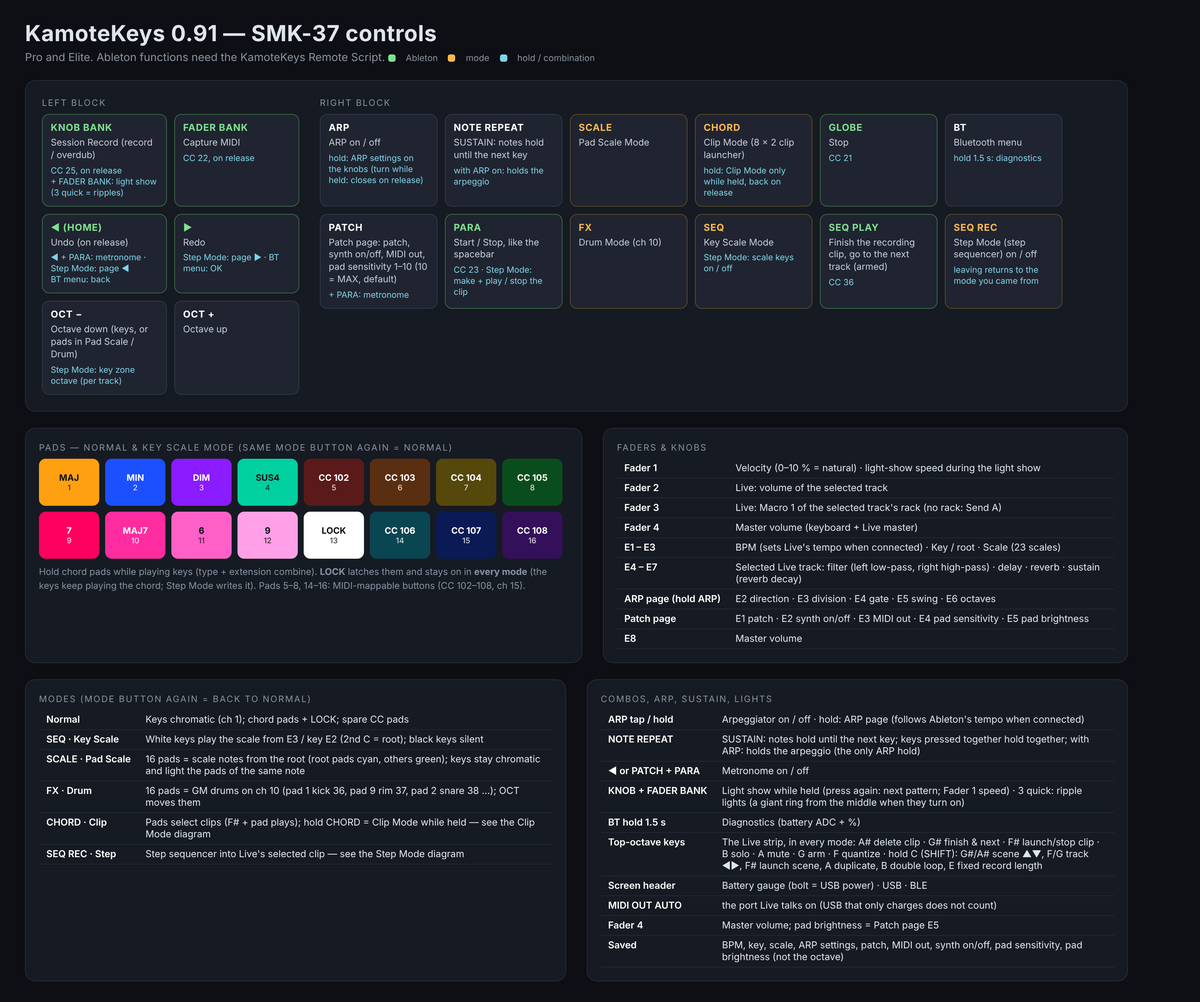
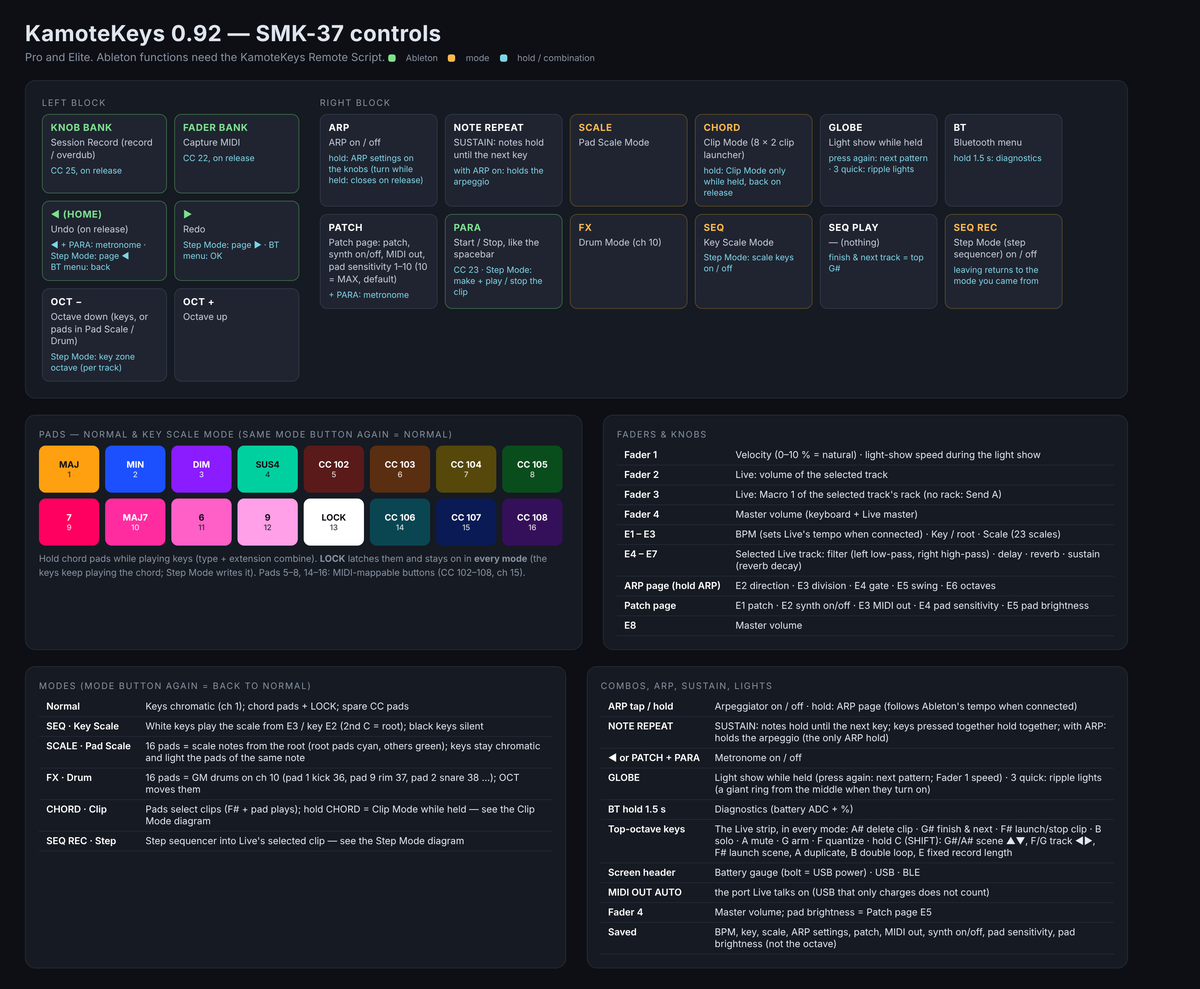
Docs for 0.92: GLOBE = light show, SEQ PLAY unused, Stop on PARA
README, HOW_TO_USE, ABLETON_REMOTE_SCRIPT, MIDI_MAPPING, CONTROLS,
CHANGELOG and the SMK-37 diagrams.

Claude-Session: https://claude.ai/code/session_014nKCDtX9z2HT4cnrjTFgfW

diff --git a/docs/diagrams/src/matrix.html b/docs/diagrams/src/matrix.html
@@ -11,7 +11,7 @@ td.same{color:#9aa0ab}
 tr.sec td{background:#1c1f26;color:#9aa0ab;font-size:11px;letter-spacing:.08em;text-transform:uppercase;font-weight:700}
 .hi{color:#ffd27a;font-weight:600}
 </style></head><body><div class="wrap">
-<h1>KamoteKeys 0.91 — what every control does in each mode (SMK-37)</h1>
+<h1>KamoteKeys 0.92 — what every control does in each mode (SMK-37)</h1>
 <div class="sub">Grey = same in every mode. Gold = changes in that mode. Ableton functions need the KamoteKeys Remote Script.</div>
 <table>
 <tr><th>Control</th><th class="m" style="--c:#9aa0ab">Normal</th><th class="m" style="--c:#ffb84d">Key Scale (SEQ)</th><th class="m" style="--c:#40e070">Pad Scale (SCALE)</th><th class="m" style="--c:#ff5a5a">Drum (FX)</th><th class="m" style="--c:#3b82f6">Clip (CHORD)</th><th class="m" style="--c:#ff5a6a">Step (SEQ REC)</th></tr>
@@ -20,7 +20,7 @@ tr.sec td{background:#1c1f26;color:#9aa0ab;font-size:11px;letter-spacing:.08em;t
 <tr class="sec"><td colspan="7">Pads (16)</td></tr>
 <tr><td class="b">Pads</td><td>1–4 MAJ MIN DIM SUS4 · 9–12 7 MAJ7 6 9 · 13 LOCK (hold + key = chord) · 5–8, 14–16 CC 102–108 buttons</td><td>Same as Normal (chords built in the scale)</td><td class="hi">16 notes of the scale from the root (root pads cyan); OCT moves them</td><td class="hi">GM drums on ch 10: pad 1 kick, 9 rim, 2 snare, 10 clap … coloured by family; OCT moves them</td><td class="hi">8 tracks × 2 scenes. Press = SELECT slot + arm; with F# = PLAY (launch / stop). Colours = Live's clip state. Scene Arrange: tracks on / off per scene</td><td class="hi">16 steps of the page (tap = note on/off; hold + later step = tie). DRUM held: Drum Mode pads that play + select</td></tr>
 <tr class="sec"><td colspan="7">Left block</td></tr>
-<tr><td class="b">KNOB BANK</td><td colspan="6" class="same">Ableton Session Record (on release) · with FADER BANK held: light show (each press = next pattern, Fader 1 = speed) · 3 quick light shows: ripple lights on / off</td></tr>
+<tr><td class="b">KNOB BANK</td><td colspan="6" class="same">Ableton Session Record (on release; fixed length if set)</td></tr>
 <tr><td class="b">FADER BANK</td><td colspan="6" class="same">Ableton Capture MIDI (on release) · see KNOB BANK for the combos</td></tr>
 <tr><td class="b">◀ (HOME)</td><td colspan="5" class="same">Ableton Undo (on release) · ◀ + PARA: metronome · in the BT menu: back</td><td class="hi">Page ◀ (◀ + PARA still metronome)</td></tr>
 <tr><td class="b">▶</td><td colspan="5" class="same">Ableton Redo · in the BT menu: OK</td><td class="hi">Page ▶</td></tr>
@@ -30,13 +30,13 @@ tr.sec td{background:#1c1f26;color:#9aa0ab;font-size:11px;letter-spacing:.08em;t
 <tr><td class="b">NOTE REPEAT</td><td colspan="6" class="same">SUSTAIN on / off: notes hold until the next key (pressed together = held together); with ARP on it holds the arpeggio</td></tr>
 <tr><td class="b">SCALE</td><td colspan="6" class="same">Pad Scale Mode on / off (lit only in Pad Scale)</td></tr>
 <tr><td class="b">CHORD</td><td colspan="4" class="same">Tap: Clip Mode · hold: Clip Mode while held, back on release</td><td class="hi">Tap: back to Normal</td><td class="hi">Tap: Clip Mode · hold: Clip Mode while held, back to Step Mode</td></tr>
-<tr><td class="b">GLOBE</td><td colspan="6" class="same">Ableton Stop</td></tr>
+<tr><td class="b">GLOBE</td><td colspan="6" class="same">Light show while held (each press = next pattern, Fader 1 = speed) · 3 quick presses: ripple lights on / off</td></tr>
 <tr><td class="b">BT</td><td colspan="6" class="same">Bluetooth menu · hold 1.5 s: diagnostics (LED test, timing)</td></tr>
 <tr><td class="b">PATCH</td><td colspan="6" class="same">Patch page (patch, internal synth on/off, MIDI out, pad sensitivity 1–10, 10 = MAX) · PATCH + PARA: metronome</td></tr>
 <tr><td class="b">PARA</td><td colspan="5" class="same">Ableton Start / Stop, like the spacebar</td><td class="hi">Make the clip if needed and play it; again = stop it</td></tr>
 <tr><td class="b">FX</td><td colspan="6" class="same">Drum Mode on / off</td></tr>
 <tr><td class="b">SEQ</td><td colspan="5" class="same">Key Scale Mode on / off (the chord LOCK stays on)</td><td class="hi">Key zone: drum keys ↔ scale keys (per track)</td></tr>
-<tr><td class="b">SEQ PLAY</td><td colspan="6" class="same">Finish the recording clip on the selected track, then select and arm the next track</td></tr>
+<tr><td class="b">SEQ PLAY</td><td colspan="6" class="same">— (finish &amp; next track is the top G#)</td></tr>
 <tr><td class="b">SEQ REC</td><td colspan="5" class="same">Step Mode on (lit)</td><td class="hi">Leave Step Mode, back to the mode you came from</td></tr>
 <tr class="sec"><td colspan="7">Faders and knobs</td></tr>
 <tr><td class="b">Fader 1</td><td colspan="6" class="same">Velocity (0–10 % = natural, above = fixed) · light-show speed during the light show</td></tr>

diff --git a/docs/diagrams/src/controls.html b/docs/diagrams/src/controls.html
@@ -25,12 +25,12 @@ td:first-child{color:#fff;font-weight:600;white-space:nowrap}
 .legend span{display:inline-block;margin-right:14px;font-size:12px;color:#8792a2}
 .dot{display:inline-block;width:10px;height:10px;border-radius:3px;margin-right:5px;vertical-align:-1px}
 </style></head><body><div class="wrap">
-<h1>KamoteKeys 0.91 — SMK-37 controls</h1>
+<h1>KamoteKeys 0.92 — SMK-37 controls</h1>
 <div class="sub">Pro and Elite. Ableton functions need the KamoteKeys Remote Script. <span class="legend"><span><span class="dot" style="background:#7ee08f"></span>Ableton</span><span><span class="dot" style="background:#ffb84d"></span>mode</span><span><span class="dot" style="background:#7fd3e6"></span>hold / combination</span></span></div>
 
 <div class="panel">
  <div><div class="label">Left block</div><div class="block left">
-  <div class="btn able"><b>KNOB BANK</b><span>Session Record (record / overdub)</span><i>CC 25, on release<br>+ FADER BANK: light show (3 quick = ripples)</i></div>
+  <div class="btn able"><b>KNOB BANK</b><span>Session Record (record / overdub)</span><i>CC 25, on release</i></div>
   <div class="btn able"><b>FADER BANK</b><span>Capture MIDI</span><i>CC 22, on release</i></div>
   <div class="btn able"><b>◀ (HOME)</b><span>Undo (on release)</span><i>◀ + PARA: metronome · Step Mode: page ◀<br>BT menu: back</i></div>
   <div class="btn able"><b>▶</b><span>Redo</span><i>Step Mode: page ▶ · BT menu: OK</i></div>
@@ -42,13 +42,13 @@ td:first-child{color:#fff;font-weight:600;white-space:nowrap}
   <div class="btn"><b>NOTE REPEAT</b><span>SUSTAIN: notes hold until the next key</span><i>with ARP on: holds the arpeggio</i></div>
   <div class="btn mode"><b>SCALE</b><span>Pad Scale Mode</span></div>
   <div class="btn mode"><b>CHORD</b><span>Clip Mode (8 × 2 clip launcher)</span><i>hold: Clip Mode only while held, back on release</i></div>
-  <div class="btn able"><b>GLOBE</b><span>Stop</span><i>CC 21</i></div>
+  <div class="btn"><b>GLOBE</b><span>Light show while held</span><i>press again: next pattern · 3 quick: ripple lights</i></div>
   <div class="btn"><b>BT</b><span>Bluetooth menu</span><i>hold 1.5 s: diagnostics</i></div>
   <div class="btn"><b>PATCH</b><span>Patch page: patch, synth on/off, MIDI out, pad sensitivity 1–10 (10 = MAX, default)</span><i>+ PARA: metronome</i></div>
   <div class="btn able"><b>PARA</b><span>Start / Stop, like the spacebar</span><i>CC 23 · Step Mode: make + play / stop the clip</i></div>
   <div class="btn mode"><b>FX</b><span>Drum Mode (ch 10)</span></div>
   <div class="btn mode"><b>SEQ</b><span>Key Scale Mode</span><i>Step Mode: scale keys on / off</i></div>
-  <div class="btn able"><b>SEQ PLAY</b><span>Finish the recording clip, go to the next track (armed)</span><i>CC 36</i></div>
+  <div class="btn"><b>SEQ PLAY</b><span>— (nothing)</span><i>finish &amp; next track = top G#</i></div>
   <div class="btn mode"><b>SEQ REC</b><span>Step Mode (step sequencer) on / off</span><i>leaving returns to the mode you came from</i></div>
  </div></div>
 </div>
@@ -106,7 +106,7 @@ td:first-child{color:#fff;font-weight:600;white-space:nowrap}
    <tr><td>ARP tap / hold</td><td>Arpeggiator on / off · hold: ARP page (follows Ableton's tempo when connected)</td></tr>
    <tr><td>NOTE REPEAT</td><td>SUSTAIN: notes hold until the next key; keys pressed together hold together; with ARP: holds the arpeggio (the only ARP hold)</td></tr>
    <tr><td>◀ or PATCH + PARA</td><td>Metronome on / off</td></tr>
-   <tr><td>KNOB + FADER BANK</td><td>Light show while held (press again: next pattern; Fader 1 speed) · 3 quick: ripple lights (a giant ring from the middle when they turn on)</td></tr>
+   <tr><td>GLOBE</td><td>Light show while held (press again: next pattern; Fader 1 speed) · 3 quick: ripple lights (a giant ring from the middle when they turn on)</td></tr>
    <tr><td>BT hold 1.5 s</td><td>Diagnostics (battery ADC + %)</td></tr>
    <tr><td>Top-octave keys</td><td>The Live strip, in every mode: A# delete clip · G# finish &amp; next · F# launch/stop clip · B solo · A mute · G arm · F quantize · hold C (SHIFT): G#/A# scene ▲▼, F/G track ◀▶, F# launch scene, A duplicate, B double loop, E fixed record length</td></tr>
    <tr><td>Screen header</td><td>Battery gauge (bolt = USB power) · USB · BLE</td></tr>

diff --git a/docs/diagrams/src/clipmode.html b/docs/diagrams/src/clipmode.html
@@ -17,10 +17,10 @@ h2{font-size:15px;letter-spacing:.06em;text-transform:uppercase;color:#9aa0ab;ma
 kbd{background:#2a2e37;border-radius:4px;padding:1px 6px;font:inherit;font-weight:600}
 </style></head><body><div class="wrap">
 <h1><span style="color:#3b82f6">CHORD</span> · Clip Mode (Ableton clip launcher)</h1>
-<div class="sub">KamoteKeys 0.91 · SMK-37 · tap CHORD to enter / leave (lit), hold CHORD for Clip Mode only while held · needs the KamoteKeys Remote Script · pads = 8 tracks × 2 scenes of Live's session view</div>
+<div class="sub">KamoteKeys 0.92 · SMK-37 · tap CHORD to enter / leave (lit), hold CHORD for Clip Mode only while held · needs the KamoteKeys Remote Script · pads = 8 tracks × 2 scenes of Live's session view</div>
 
 <h2>Buttons</h2>
-<div class="btns"><div class="b on" style="background:#3b82f6;border-color:#3b82f6;box-shadow:0 0 14px #3b82f688">CHORD · Clip Mode on/off (lit)</div><div class="b">KNOB BANK · Session Record</div><div class="b">FADER BANK · Capture MIDI</div><div class="b">SEQ PLAY · finish clip, next track</div><div class="b">PARA · Start / Stop</div><div class="b">GLOBE · Stop</div><div class="b">◀ Undo / ▶ Redo</div><div class="b">hold CHORD · Clip Mode while held</div></div>
+<div class="btns"><div class="b on" style="background:#3b82f6;border-color:#3b82f6;box-shadow:0 0 14px #3b82f688">CHORD · Clip Mode on/off (lit)</div><div class="b">KNOB BANK · Session Record</div><div class="b">FADER BANK · Capture MIDI</div><div class="b">top G# · finish clip, next track</div><div class="b">PARA · Start / Stop</div><div class="b">GLOBE · light show</div><div class="b">◀ Undo / ▶ Redo</div><div class="b">hold CHORD · Clip Mode while held</div></div>
 
 <h2>Keyboard</h2>
 <svg id="kb" width="1490" height="250"></svg>

diff --git a/docs/diagrams/src/stepmode.html b/docs/diagrams/src/stepmode.html
@@ -17,10 +17,10 @@ h2{font-size:15px;letter-spacing:.06em;text-transform:uppercase;color:#9aa0ab;ma
 kbd{background:#2a2e37;border-radius:4px;padding:1px 6px;font:inherit;font-weight:600}
 </style></head><body><div class="wrap">
 <h1><span>SEQ REC</span> · Step Mode (step sequencer)</h1>
-<div class="sub">KamoteKeys 0.91 · SMK-37 · press SEQ REC to enter / leave · needs the KamoteKeys Remote Script · edits Live's selected track + clip slot</div>
+<div class="sub">KamoteKeys 0.92 · SMK-37 · press SEQ REC to enter / leave · needs the KamoteKeys Remote Script · edits Live's selected track + clip slot</div>
 
 <h2>Buttons</h2>
-<div class="btns"><div class="b on">SEQ REC · Step Mode on/off (lit) · leaving returns to the mode you came from</div><div class="b">PARA · make the clip + play / stop it</div><div class="b">CHORD tap · Clip Mode · hold: Clip Mode while held</div><div class="b">SEQ PLAY · finish clip, next track</div><div class="b">GLOBE · Stop</div><div class="b">OCT −/+ · key zone octave (per track)</div><div class="b">SEQ · drum keys ↔ scale keys (per track)</div><div class="b">◀ / ▶ · page left / right</div></div>
+<div class="btns"><div class="b on">SEQ REC · Step Mode on/off (lit) · leaving returns to the mode you came from</div><div class="b">PARA · make the clip + play / stop it</div><div class="b">CHORD tap · Clip Mode · hold: Clip Mode while held</div><div class="b">top G# · finish clip, next track</div><div class="b">GLOBE · light show</div><div class="b">OCT −/+ · key zone octave (per track)</div><div class="b">SEQ · drum keys ↔ scale keys (per track)</div><div class="b">◀ / ▶ · page left / right</div></div>
 
 <h2>Keyboard</h2>
 <svg id="kb" width="1490" height="250"></svg>

diff --git a/docs/diagrams/src/livekeys.html b/docs/diagrams/src/livekeys.html
@@ -17,7 +17,7 @@ h2{font-size:15px;letter-spacing:.06em;text-transform:uppercase;color:#9aa0ab;ma
 kbd{background:#2a2e37;border-radius:4px;padding:1px 6px;font:inherit;font-weight:600}
 </style></head><body><div class="wrap">
 <h1><span>LIVE STRIP</span> · one layout for every mode, recording &amp; overdub</h1>
-<div class="sub">KamoteKeys 0.91 · SMK-37 · needs the KamoteKeys Remote Script · <b>top octave = the same LIVE STRIP in every mode</b> · lowest octave = the mode's own tools · Step settings = hold a step + turn a knob · <span style="color:#60a5fa">blue = with SHIFT (top C) held</span></div>
+<div class="sub">KamoteKeys 0.92 · SMK-37 · needs the KamoteKeys Remote Script · <b>top octave = the same LIVE STRIP in every mode</b> · lowest octave = the mode's own tools · Step settings = hold a step + turn a knob · <span style="color:#60a5fa">blue = with SHIFT (top C) held</span></div>
 
 <h2>1 · Normal, Key Scale, Pad Scale, Drum</h2>
 <svg id="k1" width="1470" height="300"></svg>

diff --git a/docs/diagrams/src/playmodes.html b/docs/diagrams/src/playmodes.html
@@ -9,7 +9,7 @@ h1{font-size:26px;margin:0 0 4px}.sub{color:#9aa0ab;margin-bottom:14px}
 .pad{height:46px;border-radius:7px;display:flex;flex-direction:column;align-items:center;justify-content:center;font-weight:700;font-size:12px;color:#111}
 .pad small{font-weight:500;font-size:10px;opacity:.75}
 </style></head><body><div class="wrap">
-<h1>KamoteKeys 0.91 — play modes (SMK-37)</h1>
+<h1>KamoteKeys 0.92 — play modes (SMK-37)</h1>
 <div class="sub">Keyboard on top, the 16 pads below. Mode button again = back to Normal. Clip and Step Mode have their own diagrams. In all four modes the <b>top octave</b> (F to C, except C# D D# E) controls Live's selected track / clip: delete, finish, launch / stop, solo, mute, arm, quantize; hold top C for scene / track navigation.</div>
 <div class="grid" id="g"></div></div>
 <script>

diff --git a/README.md b/README.md
@@ -74,12 +74,12 @@ Diagrams: [all controls](docs/diagrams/SMK37-Controls.png) · [every control in 
  LEFT BLOCK                         RIGHT BLOCK
  ┌────────────┬────────────┐        ┌──────┬────────────┬───────┬───────┬───────┬──────┐
  │ KNOB BANK  │ FADER BANK │        │ ARP  │ NOTE REPEAT│ SCALE │ CHORD │ GLOBE │  BT  │
- │ Sess.Rec * │ Capture *  │        │ arp  │ sustain    │ PadScl│ Clip  │ Stop  │ menu │
+ │ Sess.Rec   │ Capture    │        │ arp  │ sustain    │ PadScl│ Clip  │Lights*│ menu │
  ├────────────┼────────────┤        ├──────┼────────────┼───────┼───────┼───────┼──────┤
  │   ◀ LEFT   │  RIGHT ▶   │        │PATCH │   PARA     │  FX   │  SEQ  │ PLAY  │ REC  │
- │ HOME/Undo  │  Redo      │        │patch │ Start/Stop │ Drum  │KeyScl │Finish │ Step │
+ │ HOME/Undo  │  Redo      │        │patch │ Start/Stop │ Drum  │KeyScl │  —    │ Step │
  ├────────────┼────────────┤        └──────┴────────────┴───────┴───────┴───────┴──────┘
- │   OCT −    │   OCT +    │        * both held = light show; 3 quick = ripple lights
+ │   OCT −    │   OCT +    │        * GLOBE held = light show; 3 quick presses = ripple lights
  └────────────┴────────────┘
 ```
 
@@ -89,18 +89,17 @@ Diagrams: [all controls](docs/diagrams/SMK37-Controls.png) · [every control in 
 | NOTE REPEAT | **SUSTAIN** on/off: notes hold until the next key; with ARP on it holds the arpeggio | |
 | SCALE | Pad Scale Mode on/off | |
 | CHORD | **Clip Mode** on/off (8 × 2 Ableton clip launcher) | **Clip Mode while held**: back to the previous mode on release (also after a quick CHORD + pad) |
-| GLOBE | Ableton **Stop** (CC 21) | |
+| GLOBE | **Light show** while held; each new press = next pattern (Fader 1 = speed) | 3 quick presses: **ripple lights** on/off (a giant ring from the middle when they turn on) |
 | BT | Open/close the Bluetooth menu | 1.5 s: diagnostics (incl. the battery reading) |
 | PATCH | Open/close the patch page | |
 | PARA | Ableton **Start / Stop**, like the spacebar (CC 23). In Step Mode: make the clip and play / stop it | |
 | PATCH + PARA (or ◀ + PARA) | Ableton **metronome** on/off (CC 26) | |
 | FX | Drum Mode on/off | |
 | SEQ | Key Scale Mode on/off | |
-| SEQ PLAY | **Finish & next track** (CC 36): ends the recording on the selected track (the clip keeps playing), then selects and arms the next track at the same scene | |
+| SEQ PLAY | nothing (finish & next track is the top G#) | |
 | SEQ REC | **Step Mode** on/off (drum step sequencer) | |
 | KNOB BANK | Ableton **Session Record** (CC 25, sent on release) | |
 | FADER BANK | Ableton **Capture MIDI** (CC 22, sent on release) | |
-| KNOB BANK + FADER BANK | **Light show** while held; each new press = next pattern | 3 quick presses: **ripple lights** on/off (a giant ring from the middle when they turn on) |
 | ◀ LEFT (HOME) | Ableton **Undo** (CC 24, sent on release so ◀ + PARA can toggle the metronome). In the BT menu: HOME (back) | |
 | RIGHT ▶ | Ableton **Redo** (CC 27). In the BT menu: SAVE (OK) | |
 | OCT − / OCT + | Octave −4 … +4. Keyboard starts at **−2**; in Pad Scale/Drum Mode they move the pad octave (starts at 0) | |
@@ -114,7 +113,7 @@ In **every mode** the top octave is the same **Live strip**: it controls the tra
 | top **F** | **Quantize** the selected clip (Live's record quantization, else 1/16) | track ◀ (hold: repeats) |
 | top **F#** | **Launch / stop** the selected clip (an empty slot on an armed track records) | **launch** the selected scene |
 | top **G** | **Arm** only the selected track (PATCH + G: arm it as well) | track ▶ (hold: repeats) |
-| top **G#** | **Finish & next track** (same as SEQ PLAY) | scene ▲ |
+| top **G#** | **Finish & next track**: ends the recording (the clip keeps playing), selects and arms the next track | scene ▲ |
 | top **A** | **Mute** the selected track | **duplicate** the clip into the next empty slot below |
 | top **A#** | **Delete** the selected clip | scene ▼ |
 | top **B** | **Solo** the selected track | **double** the clip's loop |
@@ -257,11 +256,11 @@ Button LEDs are single-colour on/off LEDs. KamoteKeys adds a **dim** level (1/8 
 
 - enabled buttons are dim when idle and bright while pressed;
 - ARP, NOTE REPEAT (Sustain), SCALE, SEQ, FX and CHORD stay bright while their function or mode is active, and **SCALE shows only Pad Scale, SEQ shows only Key Scale**;
-- KNOB BANK and FADER BANK light while pressed or while the light show runs; SEQ REC in Step Mode; BT while its menu is open;
+- KNOB BANK and FADER BANK light while pressed; GLOBE while the light show runs; SEQ REC in Step Mode; BT while its menu is open;
 
-**Ripple lights**: start the light show **three times quickly** (KNOB BANK + FADER BANK, within about 1 s) to toggle them; turning them on sends a giant rainbow ring out from the middle. The pads and keys keep working normally, and every press flashes white where you pressed and sends a wide coloured ring (with an inner echo ring) across the pads (keys map left to right onto the pad columns). Not saved.
+**Ripple lights**: press **GLOBE three times quickly** (within about 1 s) to toggle them; turning them on sends a giant rainbow ring out from the middle. The pads and keys keep working normally, and every press flashes white where you pressed and sends a wide coloured ring (with an inner echo ring) across the pads (keys map left to right onto the pad columns). Not saved.
 
-**Light show** (hold KNOB BANK + FADER BANK together; each new press of the second one selects the next pattern; nothing is sent to Ableton): Rainbow sweep, Vertical pulse, Spiral/perimeter chase, Checkerboard, Diagonal wave, Breathing colours, Opposing chases, Colour wave. While it runs the pads send no MIDI, Fader 1 sets the speed (about 0.03–2 cycles per second; 0 % = 1 per second); brightness follows the Patch page setting. Changing the speed never restarts the pattern.
+**Light show** (hold **GLOBE**; each new press selects the next pattern; nothing is sent to Ableton): Rainbow sweep, Vertical pulse, Spiral/perimeter chase, Checkerboard, Diagonal wave, Breathing colours, Opposing chases, Colour wave. While it runs the pads send no MIDI, Fader 1 sets the speed (about 0.03–2 cycles per second; 0 % = 1 per second); brightness follows the Patch page setting. Changing the speed never restarts the pattern.
 
 ## Bluetooth and USB MIDI
 
@@ -295,8 +294,7 @@ Note Offs always go to every port, so a port change between Note On and Note Off
 
    | Live action | Button | CC (ch. 15) |
    |---|---|---|
-   | Finish & next track | SEQ PLAY | 36 |
-   | Stop | GLOBE | 21 |
+   | Finish & next track | top G# | 36 |
    | Capture MIDI | FADER BANK | 22 |
    | Start / Stop (spacebar) | PARA | 23 |
    | Undo | ◀ (on release) | 24 |

diff --git a/HOW_TO_USE.md b/HOW_TO_USE.md
@@ -39,8 +39,8 @@ Each time you update KamoteKeys, also replace the Remote Script folder and resta
 | Control | Does |
 |---|---|
 | **PARA** | Start / Stop, like the spacebar |
-| **SEQ PLAY** | Finish the clip being recorded and go to the next track (armed) |
-| **GLOBE** | Stop |
+| **GLOBE** | Light show while held (press again: next pattern; 3 quick presses: ripple lights) |
+| **SEQ PLAY** | nothing (finish & next track = top G#) |
 | **KNOB BANK** | Session Record (record / overdub) |
 | **FADER BANK** | Capture MIDI |
 | **◀ / ▶** | Undo / Redo (◀ + PARA or PATCH + PARA = metronome) |
@@ -99,8 +99,8 @@ Key and scale (E2 / E3) are remembered after power-off.
 - **FX**: the pads are GM drums on channel 10 (kick top left, rim below it, snare next …), coloured by drum type. OCT moves them by an octave.
 
 ### Lights
-- **Light show**: hold **KNOB BANK + FADER BANK** together. Press one of them again for the next pattern; Fader 1 sets the speed.
-- **Ripple lights**: start the light show **three times quickly** to turn ripples on (again to turn them off). Turning them on sends a big rainbow ring from the middle; every press then flashes and sends a coloured ring across the pads.
+- **Light show**: hold **GLOBE**. Press it again for the next pattern; Fader 1 sets the speed.
+- **Ripple lights**: press **GLOBE three times quickly** to turn ripples on (again to turn them off). Turning them on sends a big rainbow ring from the middle; every press then flashes and sends a coloured ring across the pads.
 
 ---
 
@@ -124,7 +124,7 @@ Press **CHORD**. The pads are 8 tracks × 2 scenes of Live's Session View, colou
 
 **Build a song from loops (Scene Arrange):** press the low **D**. The two pad rows are two scenes; tap pads to choose which tracks play in each scene (green on, dim off). Launch a scene with SHIFT + top F#: exactly those tracks play, each with its one clip, so editing a clip changes every scene. Press D again to leave.
 
-**Record a band one track at a time:** select the first track's slot (pad), press **KNOB BANK** to record, play, then press **SEQ PLAY**: the clip keeps looping and the next track is armed and selected. Press KNOB BANK again to record it, and so on.
+**Record a band one track at a time:** select the first track's slot (pad), press **KNOB BANK** to record, play, then press top **G#**: the clip keeps looping and the next track is armed and selected. Press KNOB BANK again to record it, and so on.
 
 ---
 

diff --git a/docs/ABLETON_REMOTE_SCRIPT.md b/docs/ABLETON_REMOTE_SCRIPT.md
@@ -73,7 +73,7 @@ Live talks to the script on **one** MIDI port. In Preferences → Link, Tempo & 
 | **D** (white) | **Scene Arrange** on / off (below) |
 | **SHIFT + top F# / G# / A#** | launch the selected scene / scene up / scene down (the 8 × 2 grid scrolls with Live's selected scene) |
 | the rest of the top octave | the Live strip, as in every mode (below) |
-| **SEQ PLAY** (any mode) | **finish & next track** (0.77): ends the recording on the selected track (the clip keeps playing), selects and arms the next track at the same scene |
+| **top G#** (any mode) | **finish & next track**: ends the recording on the selected track (the clip keeps playing), selects and arms the next track at the same scene |
 
 The screen shows the clip state, **Live's selected track (number and name)**, the scene and the 8 tracks in view, and the clipboard (COPIED T3 S2), or COPY: / PASTE: while it waits for a pad, and DELETE while A# is held. The pad map shows each pad's track number and the first letters of its name. **Hold CHORD** in any mode for Clip Mode only while it is held.
 
@@ -105,8 +105,6 @@ Tracks are Live's visible tracks 1–8 (as in Session View); scenes 1–2. The L
 
 | Button | CC (ch. 15) | Script action (on press) |
 |---|---|---|
-| SEQ PLAY | 20 | Play |
-| GLOBE | 21 | Stop |
 | FADER BANK | 22 | Capture MIDI |
 | PARA (FM-1: SAVE tap) | 23 | **Play/Pause**: stops, or continues from where it stopped |
 | ◀ | 24 | Undo |
@@ -114,7 +112,7 @@ Tracks are Live's visible tracks 1–8 (as in Session View); scenes 1–2. The L
 | KNOB BANK | 25 | **Session Record** on/off: records new clips on armed tracks at the selected scene, or overdubs playing clips |
 | ▶ | 27 | Redo |
 
-All buttons send 127 on press and 0 on release (KNOB BANK and FADER BANK send on release since 0.59, because holding both runs the light show).
+All buttons send 127 on press and 0 on release (KNOB BANK and FADER BANK on release). SEQ PLAY and GLOBE send nothing on the SMK-37 (GLOBE is the light-show button); FM-1: see docs/FM1.md.
 
 ## Step Mode: drum step sequencer (0.58)
 

diff --git a/docs/CONTROLS.md b/docs/CONTROLS.md
@@ -7,11 +7,11 @@
  ┌──────────────┬──────────────┐    ┌───────┬─────────────┬────────┬────────┬────────┬────────┐
  │ [0] KNOB BANK│[1] FADER BANK│    │ [6]   │ [7]         │ [8]    │ [9]    │ [10]   │ [11]   │
  │ Rec/Overdub  │ Capture MIDI │    │ ARP   │ NOTE REPEAT │ SCALE  │ CHORD  │ GLOBE  │ BT     │
- │ CC25 mom.    │ CC22         │    │       │ SUSTAIN     │ PadScl │ Clip   │ Stop   │ menu   │
+ │ CC25 mom.    │ CC22         │    │       │ SUSTAIN     │ PadScl │ Clip   │ Lights │ menu   │
  ├──────────────┼──────────────┤    ├───────┼─────────────┼────────┼────────┼────────┼────────┤
  │ [2] ◀ LEFT   │ [3] RIGHT ▶  │    │ [12]  │ [13]        │ [14]   │ [15]   │ [16]   │ [17]   │
  │ Undo CC24    │ Redo CC27    │    │ PATCH │ PARA Play/Ps│ FX     │ SEQ    │ PLAY   │ REC    │
- ├──────────────┼──────────────┤    │       │             │ Drum   │ KeyScl │ CC20   │ lights │
+ ├──────────────┼──────────────┤    │       │             │ Drum   │ KeyScl │ —      │ Step   │
  │ [4] OCT −    │ [5] OCT +    │    └───────┴─────────────┴────────┴────────┴────────┴────────┘
  └──────────────┴──────────────┘
  [n] = scanner button index in app/board/scan.c (btnmap order)

diff --git a/docs/MIDI_MAPPING.md b/docs/MIDI_MAPPING.md
@@ -20,8 +20,7 @@ All values are identical on USB and Bluetooth. Which port(s) carry them depends 
 
 | Function | CC | Button | Values |
 |---|---|---|---|
-| Start | 20 | SEQ PLAY | 127 press / 0 release |
-| Stop | 21 | GLOBE | 127 press / 0 release |
+| Stop | 21 | FM-1 only (GLO); on the SMK-37 PARA stops | 127 press / 0 release |
 | Capture MIDI | 22 | FADER BANK | 127 press / 0 release |
 | Play/Pause | 23 | PARA (FM-1: SAVE tap) | 127 press / 0 release; the script stops, or continues from the stop position |
 | Undo | 24 | ◀ LEFT (FM-1: HOME + OCT −) | 127 then 0 on release (not after ◀ + PARA, not in the BT menu) |
@@ -132,7 +131,7 @@ Feedback from the Remote Script: CC 80–95 = state 0 empty, 1 stopped, 2 playin
 
 Channel 14 never reaches the internal synth.
 
-**0.77:** channel 15 CC 23 (PARA) = Start / Stop like the spacebar; CC 35 = master volume (Fader 4, value 0–127 → Live master 0 … 0 dB); CC 36 = finish & next track (SEQ PLAY); CC 33 / 34 = move the selected clip up / down; channel 16 note 103 = Clip Mode STOP key (press / release).
+**0.77:** channel 15 CC 23 (PARA) = Start / Stop like the spacebar; CC 35 = master volume (Fader 4, value 0–127 → Live master 0 … 0 dB); CC 36 = finish & next track (top G#; FM-1: PLAY); CC 33 / 34 = move the selected clip up / down; channel 16 note 103 = Clip Mode STOP key (press / release).
 
 **Copy / paste (0.65).** Keyboard → Live: channel 16 notes 100 / 101 = Clip Mode COPY / PASTE (press / release); in Step Mode COPY / PASTE are the channel 14 function notes 67 / 77. Live → keyboard, channel 16: CC 106 = clipboard kind (0 none, 1 clip, 2 step, 3 sound, 4 bar; +32 copy waiting, +64 paste waiting), CC 107 / 108 = its numbers (clip: track, scene; step: step, page; sound: note, page; bar: bar).
 

diff --git a/CHANGELOG.md b/CHANGELOG.md
@@ -1,5 +1,10 @@
 # Changelog
 
+## KamoteKeys 0.92 (development snapshot)
+
+- **GLOBE is the light-show (RGB) button:** hold = light show, press again = next pattern, three quick presses = ripple lights. KNOB BANK + FADER BANK no longer start it.
+- GLOBE no longer sends Stop (PARA stops); SEQ PLAY does nothing (finish & next track = top G#). SMK-37 only; FM-1 unchanged.
+
 ## KamoteKeys 0.91 (development snapshot)
 
 - **One Live strip in every mode** (Clip and Step included): top F quantize, F# play / stop, G arm, G# finish & next, A mute, A# delete, B solo, C SHIFT.
